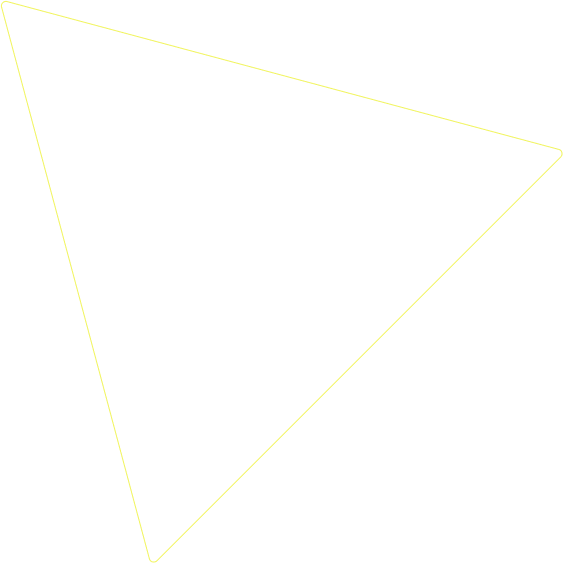
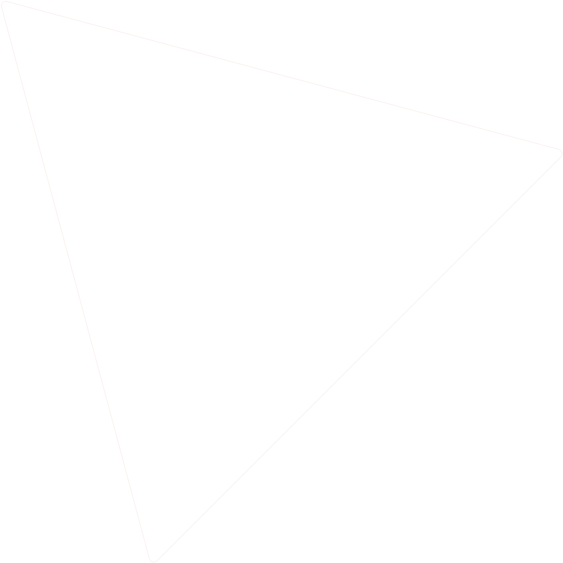
asd

diff --git a/index-2.html b/index-2.html
@@ -150,7 +150,7 @@
                                     <li class="wow fadeInRightSlow" data-wow-duration="1000ms"><a
                                         href="#about">COMPASSION</a></li>
                                     <li class="wow fadeInRightSlow" data-wow-duration="1500ms"><a      href="#about">
-                                            Excellence</a></li>
+                                            EXCELLENCE</a></li>
                                     <li class="wow fadeInRightSlow" data-wow-duration="2000ms"><a
                                             href="#about">CARE</a></li>
                                 </ul>
@@ -181,7 +181,7 @@
                                             <div class="about-right-text">
                                                 <span>ABOUT</span>
                                                 <h2 class="site-split-text ch-split-in-right">
-                                                    Professor <small>Marwan Ghosn</small>, MD, MHHM
+                                                    Professor Marwan Ghosn
                                                 </h2>
                                                 <p>Renowned for his contributions to Hematology and Oncology, Professor Marwan Ghosn has held prestigious roles in top medical institutions, leading advancements in cancer research and patient care. His commitment to excellence and innovation has set new standards in the field, making a lasting impact on medical practice and healthcare quality.</p>
                                                 <a href="about.html" class="ch-btn-style-3 ch-btn-animated">Learn More</a>
@@ -204,16 +204,18 @@
                                     <div class="ch-top-title">
                                         <span>Philosophy and Personal Approach</span>
                                         <h2 class="site-split-text ch-split-in-right">Professor Marwan Ghosn’s Approach to Oncology</h2>
+                                       
                                     </div>
                                 </div>
                                 <div class="col-xl-7 col-lg-4 col-12">
-                                    <div class="ch-top-btn">
-                                    </div>
                                 </div>
                             </div>
                         </div>
                         <div class="porfolio-wrap">
                             <div class="porfolio-item wow fadeInUp" data-wow-duration="1000ms">
+                                <p style="color:white; margin-bottom: 5vh;">Professor Marwan Ghosn's approach to oncology is rooted in a strong belief that each patient's journey is unique. With over three decades of experience, he has cultivated a practice that goes beyond only treatment to embrace the whole person.
+                                   <br><br> "In oncology, we're not just fighting a disease; we're supporting a whole person’s needs on a journey," Professor Ghosn often says. His philosophy is built on three pillars:
+                                   <br> </p>
                                 <div class="row align-items-center">
                                     <div class="col-lg-3 col-sm-6 col-12">
                                         <div class="porfolio-img">
@@ -280,69 +282,34 @@
                     </div>
                 </section>
                 <!-- end of ch-portfolio-area  -->
-
-      <!-- start of service-area -->
-<section class="service-area-s2 ptb-120">
-    <div class="container-fluid">
-        <div class="row justify-content-center">
-            <div class="col-lg-5">
-                <div class="ch-top-title-s2">
-                    <span>Academic Excellence</span>
-                    <h2 class="site-split-text ch-split-in-up">Building Expertise <small>through</small> Distinguished Education</h2>
-                </div>
-            </div>
-        </div>
-    </div>
-        
-    <div class="container">
-        <div class="service-wrap">
-            <div class="row">
-                <!-- Secondary Education -->
-                <div class="col col-lg-4 col-md-6 col-12">
-                    <div class="service-item wow fadeInUp" data-wow-duration="1000ms">
-                        <div class="service-text">
-                            <div class="icon">
-                                <i class="icon-angle"></i>
+                    <!-- start ch-newsletter-area -->
+                    <section class="ch-newsletter-area" style="margin-top: 10vh; margin-bottom: 10vh;">
+                        <div class="container">
+                            <div class="ch-newsletter-wrap">
+                                <h2>Academic Excellence</h2>
+                                <div class="row justify-content-center">
+                                    <div class="col-xl-6 col-lg-8">
+                                        <div class="newsletter-form" style="text-align: center;">
+                                            <p>With dual Doctor of Medicine degrees from Saint Joseph University of Beirut and the Republic of France, along with numerous postgraduate certifications in oncology and healthcare management from prestigious institutions across Europe and the USA, I have cultivated a comprehensive expertise in medicine. My educational journey is further enriched by Masters in Hospital and Health Management from the University of Paris 7 Denis Diderot and the Superior School of Business in Beirut.</p>
+                                            <a href="education.html" class="read-more" style="
+                                            font-size: 16px;
+                                            font-style: normal;
+                                            font-weight: 700;
+                                            line-height: 32px;
+                                            letter-spacing: 1.28px;
+                                            text-transform: uppercase;
+                                            color: #58734c;
+                                            position: relative;
+                                            padding-right: 25px;">Learn More →
+ </a>
+                                        </div>
+                                    </div>
+                                </div>
                             </div>
-                            <h3><a href="education.html">Secondary Education</a></h3>
-                            <p>Completed secondary studies with the Lebanese Baccalaureate and the French Secondary Baccalaureate Diploma at Collège des Frères Passy Buzenval, France.</p>
-                            <a href="education.html" class="read-more">Learn More</a>
                         </div>
-                    </div>
-                </div>
+                    </section>
+                    <!-- end ch-newsletter-area -->
 
-                <!-- Higher Education and Postgraduate Medical Degrees -->
-                <div class="col col-lg-4 col-md-6 col-12">
-                    <div class="service-item wow fadeInUp" data-wow-duration="1200ms">
-                        <div class="service-text">
-                            <div class="icon">
-                                <i class="icon-design"></i>
-                            </div>
-                            <h3><a href="education.html">Higher Education &<br>Postgraduate Medical Degrees</a></h3>
-                            <p>Earned a Doctor of Medicine degree in France and Lebanon, along with the ECFMG certification, followed by specialized oncology training in global institutions.</p>
-                            <a href="education.html" class="read-more">Learn More</a>
-                        </div>
-                    </div>
-                </div>
-
-                <!-- Management and Health Economics -->
-                <div class="col col-lg-4 col-md-6 col-12">
-                    <div class="service-item wow fadeInUp" data-wow-duration="1400ms">
-                        <div class="service-text">
-                            <div class="icon">
-                                <i class="icon-angle2"></i>
-                            </div>
-                            <h3><a href="education.html">Management &<br>Health Economics</a></h3>
-                            <p>Holds multiple diplomas in hospital and health management, including a Master’s from the University of Paris VII, complementing his medical expertise.</p>
-                            <a href="education.html" class="read-more">Learn More</a>
-                        </div>
-                    </div>
-                </div>
-            </div>
-        </div>
-    </div>
-</section>
-<!-- end of service-area -->
 
                 <!-- start of video-area  -->
                 <div class="video-area">
@@ -358,7 +325,7 @@
                 </div>
                 <!-- end of video-area  -->
 
-           <!-- start of benefit-area -->
+       <!-- start of benefit-area -->
 <section class="benefit-area ptb-120">
     <div class="container-fluid">
         <div class="row justify-content-center">
@@ -366,62 +333,36 @@
                 <div class="ch-top-title-s2">
                     <span>Achievements and Leadership</span>
                     <h2 class="site-split-text ch-split-in-up">Distinguished <small>Leadership</small> and Professional Contributions</h2>
+                    <h4 style="color:black;">Throughout his career, Professor Ghosn has held numerous prestigious positions:</h4>
                 </div>
             </div>
         </div>
         <div class="benefit-wrap">
-            <div class="row">
+            <div class="row justify-content-center">
                 <!-- Academic and Hospital Leadership -->
-                <div class="col col-xl-3 col-lg-6 col-md-6 col-12">
+                <div class="col col-xl-4 col-lg-6 col-md-6 col-12">
                     <div class="benefit-item wow fadeInUp" data-wow-duration="1000ms">
-                        <div class="benefit-text">
+                        <div class="benefit-text" style="text-align: center;">
                             <div class="icon">
                                 <i class="icon-sicon6"></i>
                             </div>
                             <h3><a href="achievement.html">Academic &<br>Hospital Leadership</a></h3>
-                            <p>Professor Ghosn has held prominent roles including Chairman of Hematology Oncology at leading institutions and Director of postgraduate programs.</p>
+                            <p>Professor Ghosn has held prominent roles, including Chairman of Hematology Oncology and Director of postgraduate programs in major medical institutions.</p>
+                        
                             <a href="achievement.html" class="read-more">Read More</a>
                         </div>
                     </div>
                 </div>
 
                 <!-- Professional Organizations -->
-                <div class="col col-xl-3 col-lg-6 col-md-6 col-12">
+                <div class="col col-xl-4 col-lg-6 col-md-6 col-12">
                     <div class="benefit-item wow fadeInUp" data-wow-duration="1200ms">
-                        <div class="benefit-text">
+                        <div class="benefit-text" style="text-align: center;">
                             <div class="icon">
                                 <i class="icon-angle4"></i>
                             </div>
                             <h3><a href="achievement.html">Professional Organizations</a></h3>
-                            <p>Actively involved in key oncology societies, Professor Ghosn co-founded the Lebanese Cancer Research Group and served as President of LSMO.</p>
-                            <a href="achievement.html" class="read-more">Read More</a>
-                        </div>
-                    </div>
-                </div>
-
-                <!-- Editorial and Research Leadership -->
-                <div class="col col-xl-3 col-lg-6 col-md-6 col-12">
-                    <div class="benefit-item wow fadeInUp" data-wow-duration="1400ms">
-                        <div class="benefit-text">
-                            <div class="icon">
-                                <i class="icon-vec2"></i>
-                            </div>
-                            <h3><a href="achievement.html">Editorial &<br>Research Leadership</a></h3>
-                            <p>Professor Ghosn served as Editor-in-Chief of the Pan Arab Journal of Oncology and contributed significantly to regional and international cancer research.</p>
-                            <a href="achievement.html" class="read-more">Read More</a>
-                        </div>
-                    </div>
-                </div>
-
-                <!-- Foundational Initiatives -->
-                <div class="col col-xl-3 col-lg-6 col-md-6 col-12">
-                    <div class="benefit-item wow fadeInUp" data-wow-duration="1600ms">
-                        <div class="benefit-text">
-                            <div class="icon">
-                                <i class="icon-angle2"></i>
-                            </div>
-                            <h3><a href="achievement.html">Foundational Initiatives</a></h3>
-                            <p>Founder of IGH, a multidisciplinary clinic, Professor Ghosn has pioneered initiatives that extend oncology care beyond traditional boundaries.</p>
+                            <p>Active in key oncology societies, Professor Ghosn co-founded the Lebanese Cancer Research Group and served as President of the Lebanese Society of Medical Oncology.</p>
                             <a href="achievement.html" class="read-more">Read More</a>
                         </div>
                     </div>

diff --git a/assets/sass/style.css b/assets/sass/style.css
@@ -1864,7 +1864,7 @@ body.dark-page .mouse-circle-mover-follow {
   top: 0;
   width: 680px;
   height: 680px;
-  background: #E9D275;
+  background: #FBF3F2;
   content: "";
   z-index: -1;
   clip-path: polygon(0 0, 0% 100%, 100% 50%);
